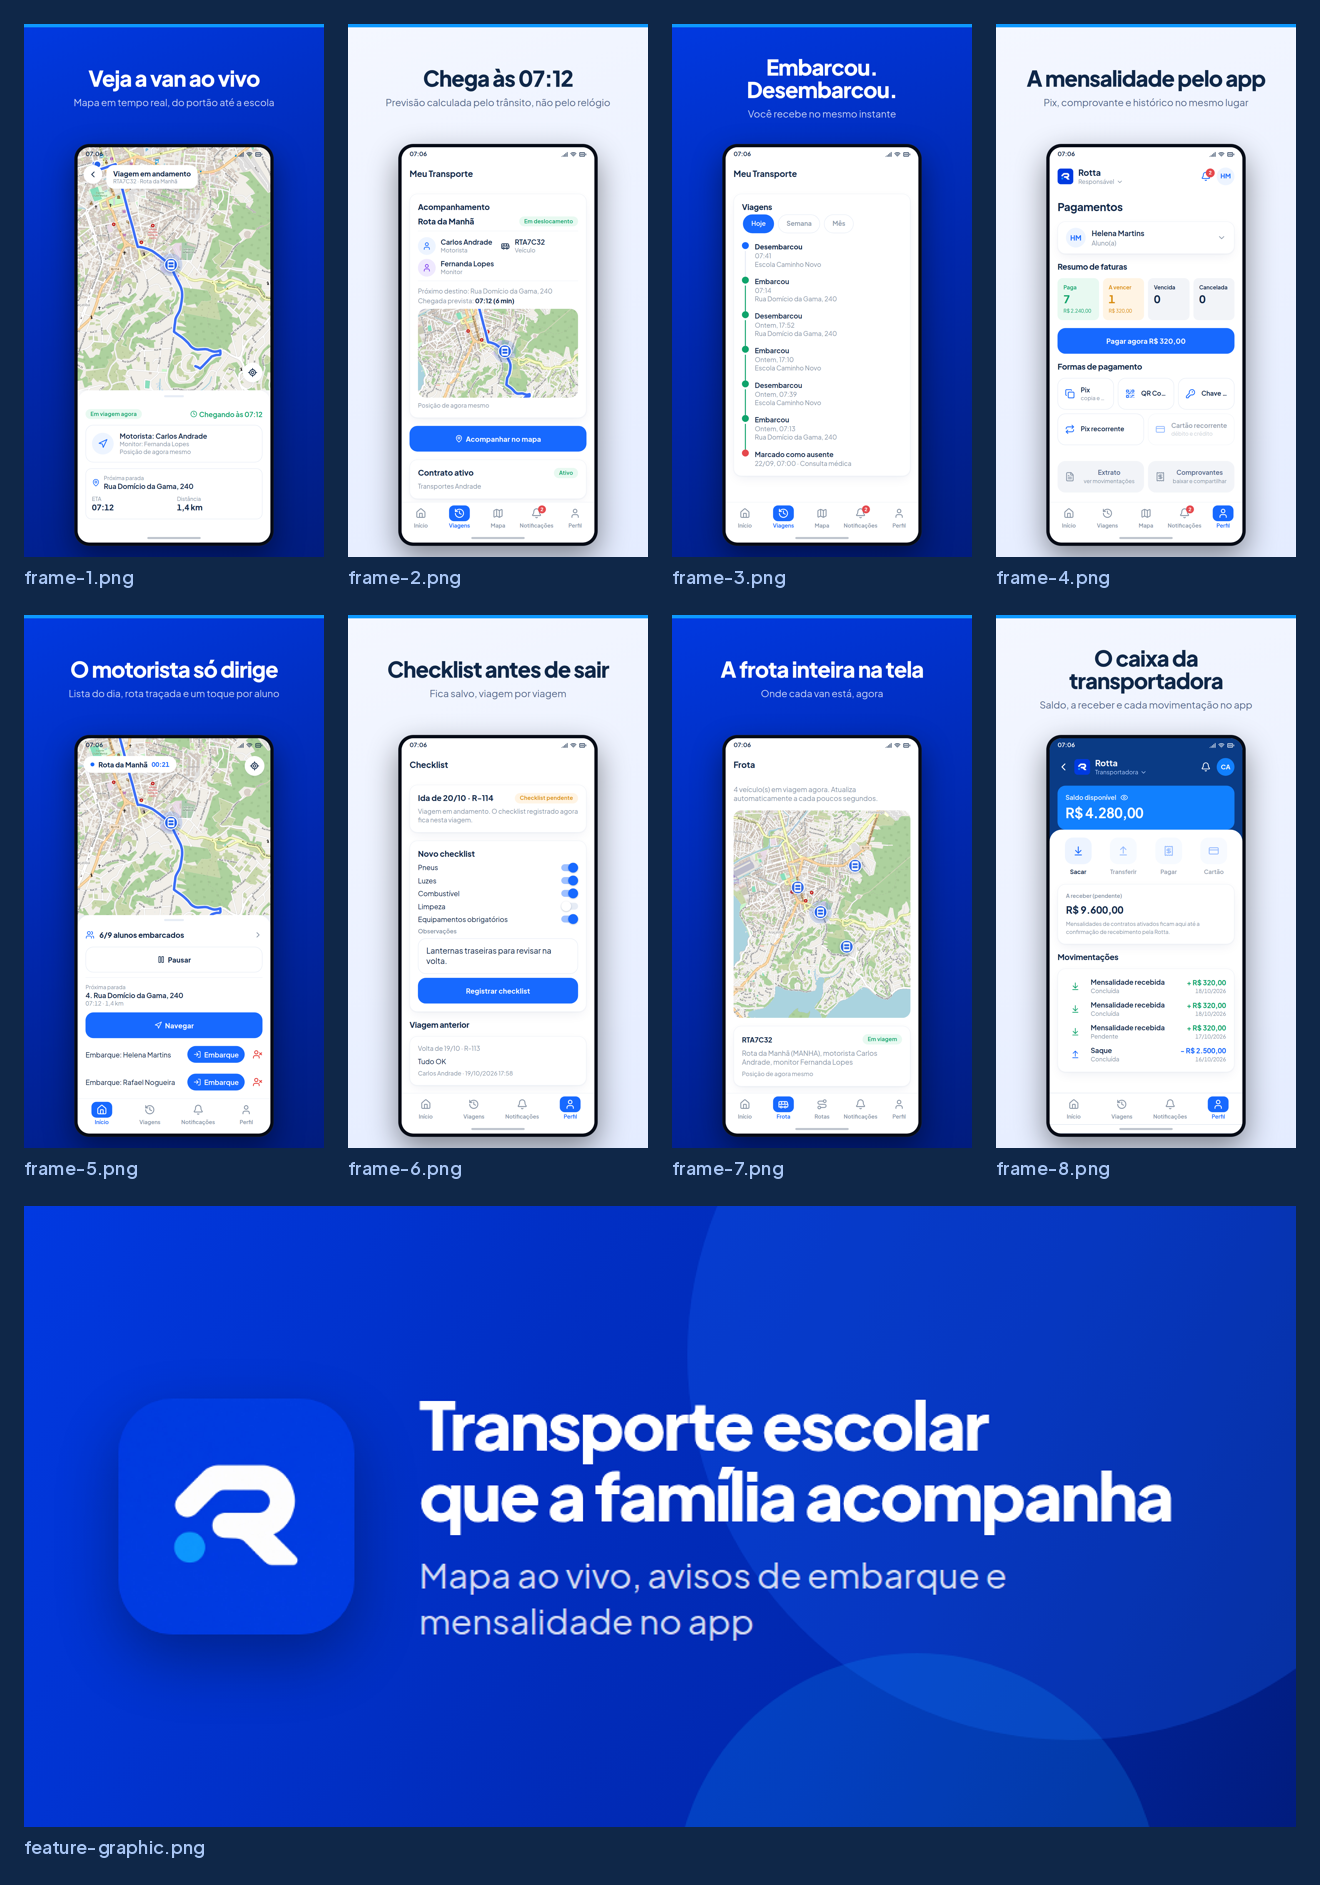
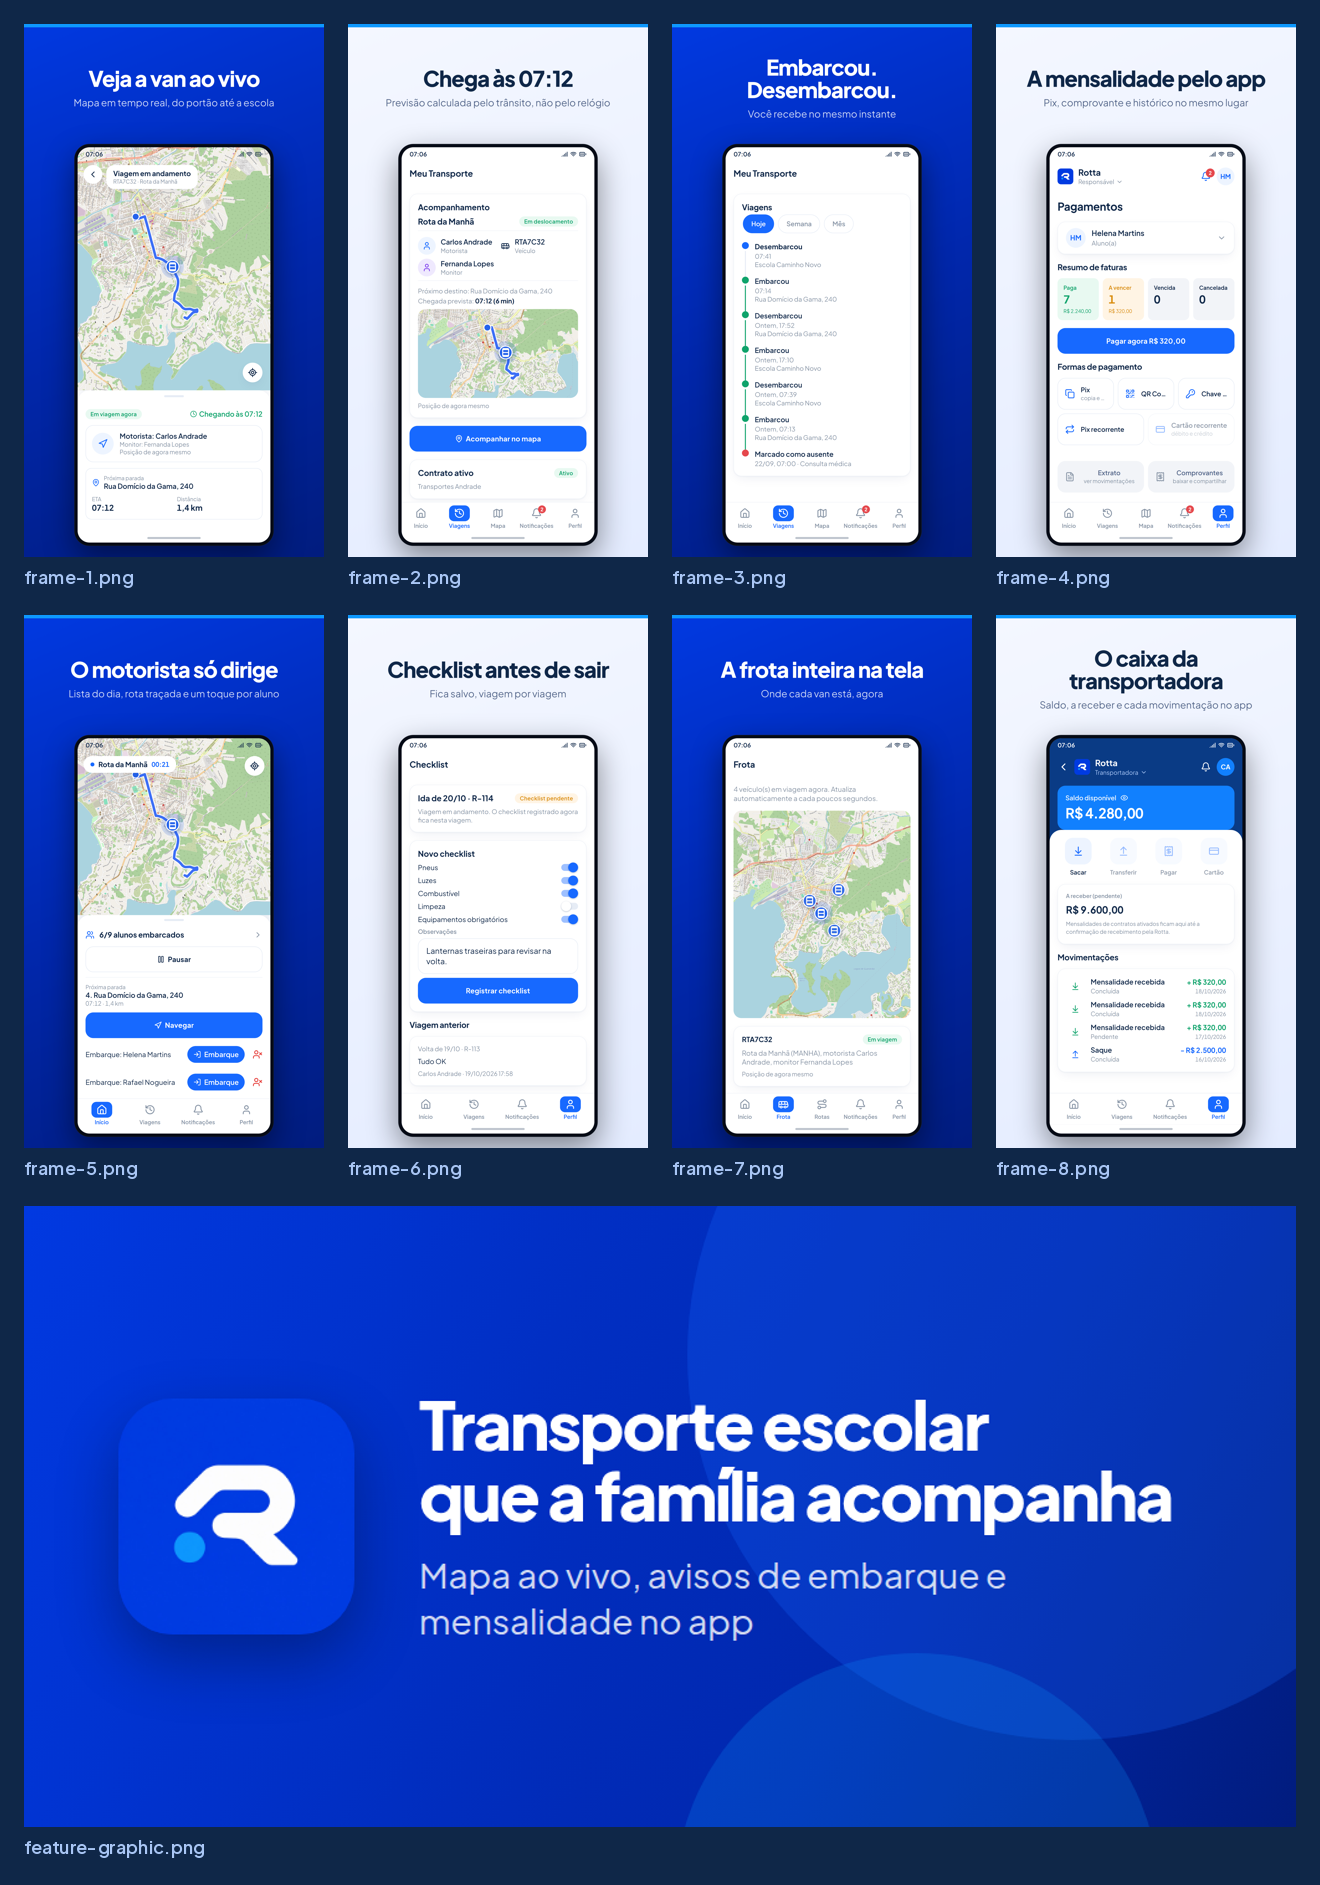
feat(repo): capturas da ficha em 4K UHD (2160x3840)
Pedido do fundador: cada peca separada, na maior qualidade que a Play
Console aceita.

2160x3840 e 4K UHD em retrato e e o TETO da loja, porque o lado maior
nao pode passar de 3840. Quem dobra e o --force-device-scale-factor do
Chromium, entao letra, icone e sombra continuam vetoriais. O mapa, que e
imagem, teve a densidade dobrada junto (tiles um nivel de zoom acima),
senao sairia borrado no meio de uma peca onde todo o resto e nitido.

O banner nao acompanha o fator: a Play exige 1024x500 exatos, e
2048x1000 e recusado. Quem pegou isso foi a conferencia automatica, na
primeira vez que o 4K rodou.

O 4K passou a ser o padrao e fica nas pastas de nome limpo, que sao as
que se sobem. O 1080x1920, que e o tamanho recomendado pela Google,
continua a um argumento de distancia e cai em faixa-1080/ e
moldura-1080/.

Nao existe HDR aqui, e nao da para fingir: a Play documenta dois
formatos para captura, JPEG ou PNG de 24 bits sem alfa, e nao descreve
suporte a Ultra HDR nem a mapa de ganho. Mapa de ganho fabricado a
partir de um desenho que nasceu em SDR inventa brilho que o original nao
tem. O que da para entregar de verdade e resolucao.

As 18 pecas passaram na conferencia: medida, formato sem alfa, contagem
de oito por tipo de aparelho e tamanho de arquivo (nenhuma passa de
3,5 MB, contra o teto de 8).

Claude-Session: https://claude.ai/code/session_01MFVmUeSZA7epxjY9Ugc7jV

diff --git a/scripts/play-store-assets.py b/scripts/play-store-assets.py
@@ -179,6 +179,18 @@ FAIXA_LINHA_Y = 548
 TELA_A = MOLDURA_TELA_A
 COM_CROMO = True
 
+# Fator de resolucao. 2 entrega 2160x3840, que e 4K UHD em retrato e o
+# MAIOR tamanho que a Play Console aceita (o lado maior nao pode passar
+# de 3840); 1 entrega 1080x1920, o tamanho que a propria Google
+# recomenda. O desenho nao muda entre os dois: o layout continua em
+# pixels de CSS e quem dobra e o `--force-device-scale-factor` do
+# Chromium, entao letra, icone e sombra saem vetoriais nos dois. O que
+# precisa acompanhar na mao e o mapa, que e imagem (ver `Mapa`).
+#
+# O padrao e 2, porque a peca entregue e a de maior qualidade que a loja
+# aceita. O 1x continua a um argumento de distancia.
+FATOR = 2
+
 
 # ---------------------------------------------------------------------------
 # Fonte e icones, lidos de node_modules
@@ -323,7 +335,10 @@ class Mapa:
     """
 
     def __init__(self, lat: float, lon: float, zoom: int, largura: int, altura: int) -> None:
-        self.densidade = 2
+        # A tela ainda e ampliada pela escala do quadro (1,78x ou 2,03x) e
+        # depois pelo fator de resolucao. Sem acompanhar os dois, o mapa
+        # sairia borrado no meio de uma peca onde todo o resto e vetor.
+        self.densidade = 2 * FATOR
         self.zoom = zoom + 1
         self.largura, self.altura = largura, altura
         px, py = self._mundo(lat, lon)
@@ -1675,7 +1690,7 @@ def render(html: str, destino: Path, largura: int, altura: int) -> None:
         [
             CHROMIUM, "--headless", "--disable-gpu", "--no-sandbox",
             f"--window-size={largura},{altura + FOLGA_DA_JANELA}",
-            "--hide-scrollbars", "--force-device-scale-factor=1",
+            "--hide-scrollbars", f"--force-device-scale-factor={FATOR}",
             f"--screenshot={destino}", temporario.as_uri(),
         ],
         check=True,
@@ -1688,7 +1703,9 @@ def render(html: str, destino: Path, largura: int, altura: int) -> None:
     # Chromium sai em RGBA. Deixar isso dependendo de um `if` e deixar a
     # recusa depender de sorte.
     with Image.open(destino) as bruto:
-        bruto.convert("RGB").crop((0, 0, largura, altura)).save(destino, optimize=True)
+        bruto.convert("RGB").crop((0, 0, largura * FATOR, altura * FATOR)).save(
+            destino, optimize=True
+        )
 
 
 def folha_de_contato(saida: Path) -> None:
@@ -1764,9 +1781,16 @@ def gerar(modelo: str, saida: Path) -> None:
     COM_CROMO = modelo == "moldura"
 
     saida.mkdir(parents=True, exist_ok=True)
+
+    # O banner nao acompanha o fator de resolucao: a Play Console exige
+    # 1024x500 EXATOS, e 2048x1000 e recusado. Quem apanhou isso foi a
+    # conferencia do fim, na primeira vez que o 4K rodou.
+    global FATOR
+    fator_pedido, FATOR = FATOR, 1
     banner = feature_html() if modelo == "moldura" else feature_faixa_html()
     render(banner, saida / "feature-graphic.png", 1024, 500)
-    print(f"{modelo}/feature-graphic.png  1024x500")
+    FATOR = fator_pedido
+    print(f"{saida.name}/feature-graphic.png  1024x500")
 
     for n, (chamada, apoio, tom, monta_tela) in enumerate(QUADROS, start=1):
         arquivo = saida / f"frame-{n}.png"
@@ -1775,10 +1799,10 @@ def gerar(modelo: str, saida: Path) -> None:
         else:
             html = quadro_faixa_html(chamada, apoio, monta_tela, n - 1, len(QUADROS))
         render(html, arquivo, QUADRO_L, QUADRO_A)
-        print(f"{modelo}/frame-{n}.png  {QUADRO_L}x{QUADRO_A}  {chamada}")
+        print(f"{saida.name}/frame-{n}.png  {QUADRO_L * FATOR}x{QUADRO_A * FATOR}  {chamada}")
 
     folha_de_contato(saida)
-    print(f"{modelo}/contato.png  conferencia do conjunto, nao sobe para a loja")
+    print(f"{saida.name}/contato.png  conferencia do conjunto, nao sobe para a loja")
 
 
 # Regras da ficha, da pagina de ajuda da Play Console (conferida em
@@ -1838,16 +1862,28 @@ def conferir(saida: Path) -> bool:
 
 
 def main() -> int:
+    """Uso: play-store-assets.py [pasta] [moldura|faixa|ambos] [4k|1080|ambos]."""
+    global FATOR
+
     raiz = Path(sys.argv[1] if len(sys.argv) > 1 else "play-store").resolve()
     escolhido = sys.argv[2] if len(sys.argv) > 2 else "ambos"
+    resolucao = sys.argv[3] if len(sys.argv) > 3 else "4k"
+
     modelos = ["moldura", "faixa"] if escolhido == "ambos" else [escolhido]
+    fatores = {"4k": [2], "1080": [1], "ambos": [2, 1]}[resolucao]
 
     tudo_certo = True
-    for modelo in modelos:
-        gerar(modelo, raiz / modelo)
-        tudo_certo = conferir(raiz / modelo) and tudo_certo
+    for fator in fatores:
+        FATOR = fator
+        for modelo in modelos:
+            # O 4K fica na pasta de nome limpo, porque e o que se sobe;
+            # o 1080 ganha sufixo, para os dois conviverem sem ninguem
+            # subir o errado sem perceber.
+            pasta = raiz / (modelo if fator == 2 else f"{modelo}-1080")
+            gerar(modelo, pasta)
+            tudo_certo = conferir(pasta) and tudo_certo
 
-    print(f"\n{len(modelos)} jogo(s) de {len(QUADROS) + 1} pecas em {raiz}/")
+    print(f"\n{len(modelos) * len(fatores)} jogo(s) de {len(QUADROS) + 1} pecas em {raiz}/")
     return 0 if tudo_certo else 1
 
 

diff --git a/play-store/README.md b/play-store/README.md
@@ -8,6 +8,17 @@ ela inteira; não misture as duas.
 | `faixa/`   | manchete à esquerda, cartão sangrando, rota ligando tudo |
 | `moldura/` | aparelho inteiro, com a barra de abas à mostra           |
 
+As capturas saem em **2160x3840**, que é 4K UHD em retrato e o maior
+tamanho que a Play Console aceita. Para gerar também a versão de
+1080x1920, que é a que a Google recomenda, rode com `ambos`:
+
+```
+python3 scripts/play-store-assets.py play-store ambos ambos
+```
+
+Ela cai em `faixa-1080/` e `moldura-1080/`. É o mesmo desenho, só com
+metade dos pixels.
+
 ---
 
 ## Ordem de upload
@@ -29,9 +40,12 @@ ordem do nome do arquivo:
 
 E o banner, que vai no campo separado:
 
-| Campo              | Arquivo               |
-| ------------------ | --------------------- |
-| Gráfico de recurso | `feature-graphic.png` |
+| Campo              | Arquivo               | Tamanho  |
+| ------------------ | --------------------- | -------- |
+| Gráfico de recurso | `feature-graphic.png` | 1024x500 |
+
+O banner **não** acompanha o 4K: a Play Console exige 1024x500 exatos, e
+2048x1000 é recusado.
 
 `contato.png` **não sobe.** É a folha de conferência, com tudo junto.
 
@@ -53,22 +67,33 @@ O script confere sozinho a cada execução e termina com erro se alguma
 peça sair da regra. O que ele checa, contra a página de ajuda da Play
 Console lida em 19/10/2026:
 
-| Regra                                     | O que entregamos     |
-| ----------------------------------------- | -------------------- |
-| No máximo 8 capturas por tipo de aparelho | 8                    |
-| JPEG ou PNG de 24 bits, **sem alfa**      | PNG RGB, sem alfa    |
-| Menor lado ≥ 320 px, maior lado ≤ 3840 px | 1080 e 1920          |
-| Maior lado ≤ **o dobro** do menor         | 1920 = 1,78x de 1080 |
-| Recomendado: 9:16 retrato, pelo menos 4   | 9:16, oito capturas  |
-| Gráfico de recurso 1024x500               | 1024x500             |
-
-Nenhum arquivo passa de 1,2 MB.
+| Regra                                     | O que entregamos       |
+| ----------------------------------------- | ---------------------- |
+| No máximo 8 capturas por tipo de aparelho | 8                      |
+| JPEG ou PNG de 24 bits, **sem alfa**      | PNG RGB, sem alfa      |
+| Menor lado ≥ 320 px, maior lado ≤ 3840 px | 2160 e 3840            |
+| Maior lado ≤ **o dobro** do menor         | 3840 = 1,78x de 2160   |
+| Recomendado: 9:16 retrato, pelo menos 4   | 9:16, oito capturas    |
+| Gráfico de recurso 1024x500               | 1024x500               |
+| Tamanho de arquivo                        | nenhum passa de 3,5 MB |
 
 Para repetir a conferência:
 
 ```
 python3 scripts/play-store-assets.py play-store
 ```
+
+### Sobre HDR
+
+A ficha da loja **não tem HDR**. A Play Console documenta exatamente
+dois formatos para captura, "JPEG ou PNG de 24 bits (sem alfa)", e não
+descreve suporte a Ultra HDR nem a mapa de ganho. As peças são sRGB de 8
+bits por canal, que é o que a loja exibe.
+
+Fabricar um mapa de ganho a partir de um desenho que nasceu em SDR não
+acrescentaria faixa dinâmica nenhuma: inventaria brilho que o original
+não tem. O que dá para entregar de verdade é resolução, e ela está no
+teto do que a loja aceita.
 
 ---
 

diff --git a/empresa/marketing/2026-10-19-play-store-destaques.md b/empresa/marketing/2026-10-19-play-store-destaques.md
@@ -163,14 +163,28 @@ regra. Os valores são da página de ajuda da Play Console, lida em
 | ----------------------------------------- | -------------------- |
 | No máximo 8 capturas por tipo de aparelho | 8                    |
 | JPEG ou PNG de 24 bits, **sem alfa**      | PNG RGB              |
-| Menor lado ≥ 320 px, maior ≤ 3840 px      | 1080 e 1920          |
-| Maior lado ≤ **o dobro** do menor         | 1920 = 1,78x de 1080 |
+| Menor lado ≥ 320 px, maior ≤ 3840 px      | 2160 e 3840          |
+| Maior lado ≤ **o dobro** do menor         | 3840 = 1,78x de 2160 |
 | Recomendado 9:16, pelo menos 4 capturas   | 9:16, oito capturas  |
 | Gráfico de recurso 1024x500               | 1024x500             |
 
 O "sem alfa" é o que mais derruba upload, e era um risco real aqui: o
 Chromium devolve o screenshot em RGBA. A conversão passou a ser
 incondicional, e não mais um efeito colateral do recorte.
+
+**As capturas saem em 2160x3840**, que é 4K UHD em retrato e o teto do
+que a loja aceita: o lado maior não pode passar de 3840. Quem dobra é o
+`--force-device-scale-factor` do Chromium, então letra, ícone e sombra
+continuam vetoriais; o mapa, que é imagem, teve a densidade dobrada
+junto, senão sairia borrado no meio de uma peça onde todo o resto é
+nítido. O banner **não** acompanha: a Play exige 1024x500 exatos, e foi
+a própria conferência que pegou isso na primeira execução em 4K.
+
+**Não existe HDR na ficha.** A Play Console documenta dois formatos para
+captura, JPEG ou PNG de 24 bits sem alfa, e não descreve suporte a Ultra
+HDR nem a mapa de ganho. Fabricar um mapa de ganho a partir de um
+desenho que nasceu em SDR inventaria brilho que o original não tem. O
+que dá para entregar de verdade é resolução, e ela está no teto.
 
 A ordem de upload e os nomes dos arquivos estão em `play-store/README.md`.
 
